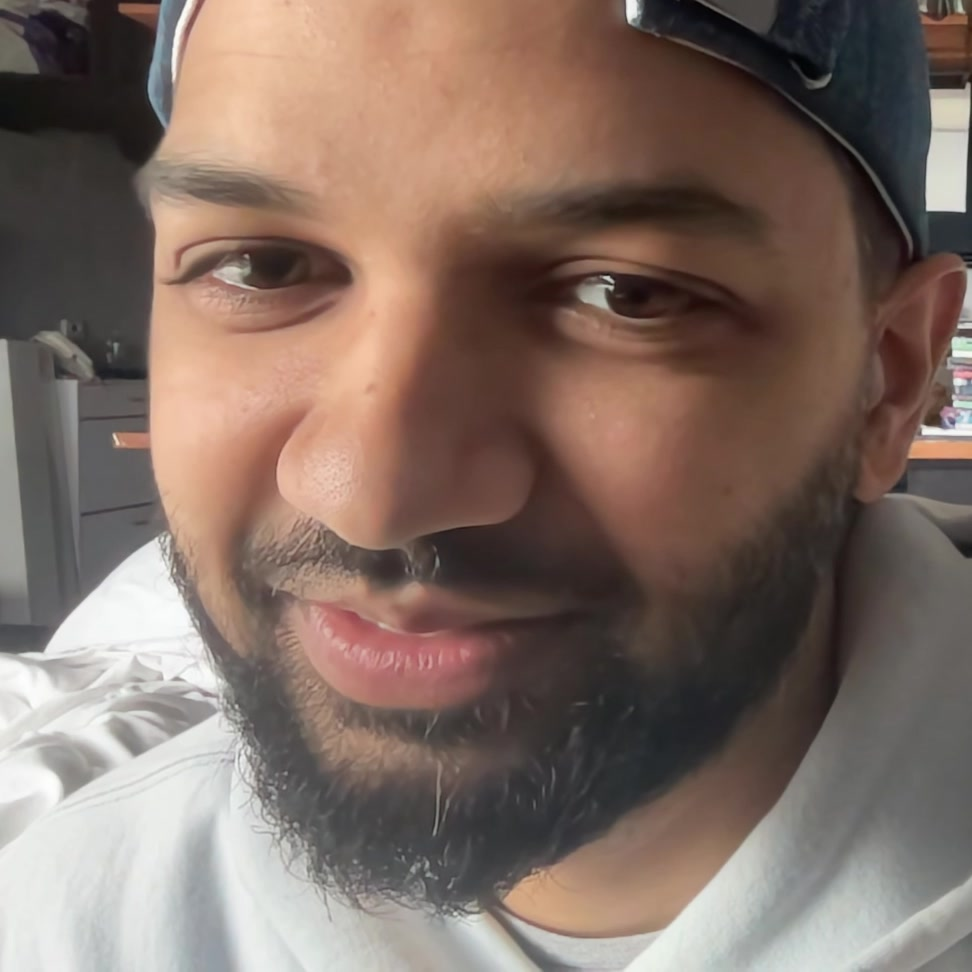
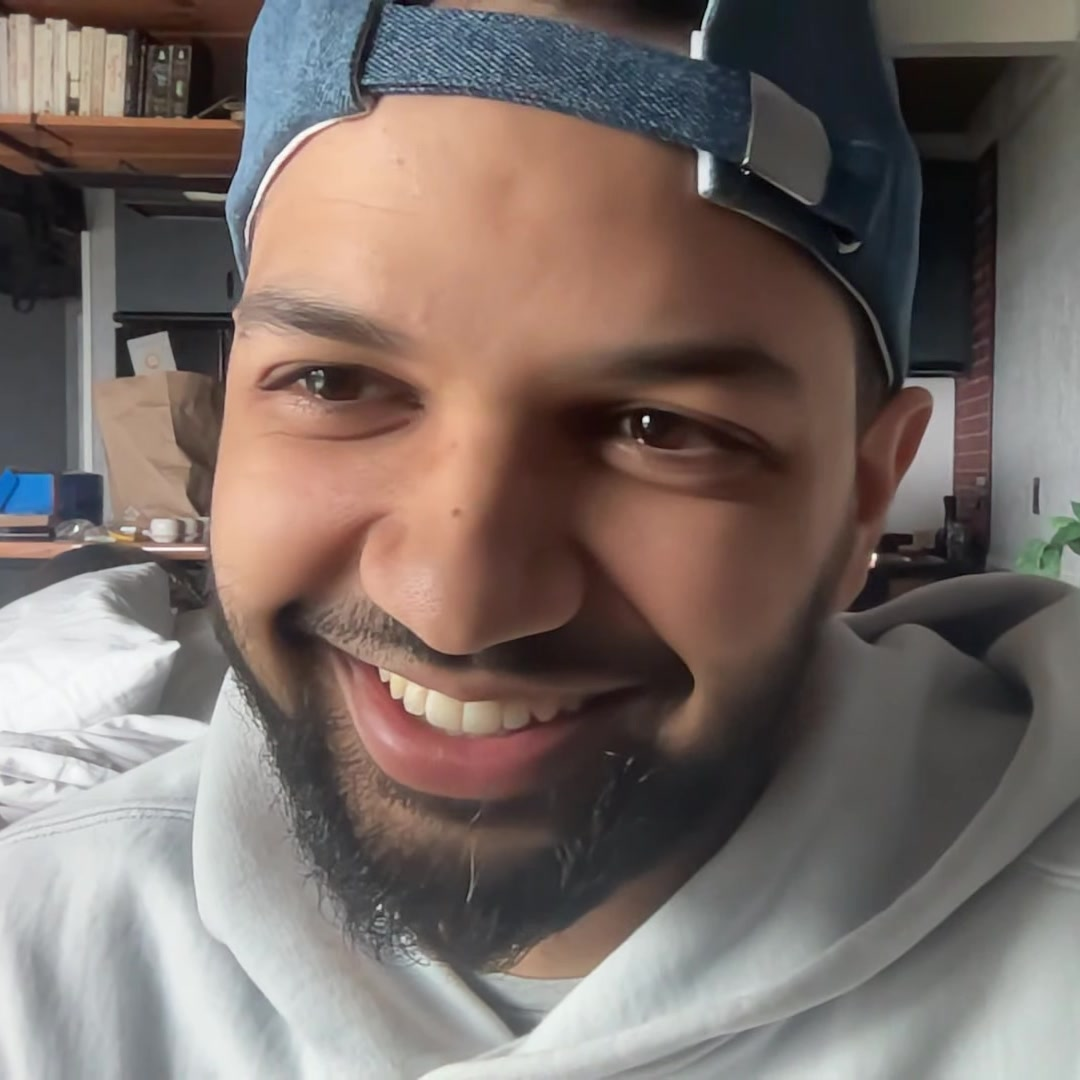
Replace Ahsan and Omar's second photos with smiling shots

diff --git a/docs/branding/faces/README.md b/docs/branding/faces/README.md
@@ -4,8 +4,9 @@ Reference photos for animating the hosts in the 5-second intro. See
 [`../intro-credits-proposal.json`](../intro-credits-proposal.json) for the
 shot list, style and timing.
 
-Stills from the Episode 1 camera recordings. Two per host: a neutral face and
-an expression.
+Stills from the Episode 1 camera recordings. Two per host: `-1` is a relaxed,
+front-facing reference and `-2` is a big smile. Use the smile for the intro's
+pop-up and bonk frames.
 
 | Host  | Files                        | Notable features                                   | Prop in the intro          | Pops up on beat |
 |-------|------------------------------|----------------------------------------------------|----------------------------|-----------------|
